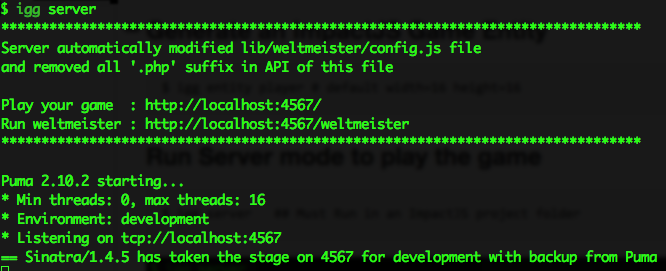
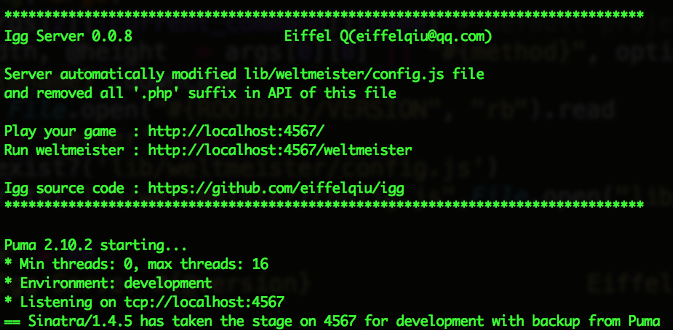
change server prompt

Changed region(s): [[0.0, 0.3542, 0.991, 1.0], [0.0, 0.0, 0.961, 0.3247]]

diff --git a/lib/igg/cli.rb b/lib/igg/cli.rb
@@ -8,6 +8,12 @@ require_relative 'server'
 require_relative 'ext/string_extention'
 %w[project entity level].each { |task| require_relative "builder/#{task}_builder" }
 
+LIBDIR = File.expand_path(File.join(File.dirname(__FILE__), '../..', 'lib'))
+ROOTDIR = File.expand_path(File.join(File.dirname(__FILE__), '../..'))
+unless $LOAD_PATH.include?(LIBDIR)
+  $LOAD_PATH << LIBDIR
+end
+
 class Igg::CLI < Thor
   include Thor::Actions
   Igg::Builder.constants.each { |b| include "Igg::Builder::#{b}".to_class }
@@ -35,17 +41,22 @@ class Igg::CLI < Thor
   def processing(*args)
     method = args[2][:current_command][:name] # default project name is app type name
     @name, @width, @height  = args[0][0] || "#{method}", options[:width], options[:height]
-    @name = "#{@name}".downcase                                  
+    @name = "#{@name}".downcase  
+    @version = File.open("#{ROOTDIR}/VERSION", "rb").read                                
     if method == 'server' then
       if File.exist?('lib/weltmeister/config.js')
         File.write("lib/weltmeister/config.js",File.open("lib/weltmeister/config.js",&:read).gsub(".php",""))
         puts 
         puts "*" * 80
+        puts "Igg Server #{@version}                   Eiffel Q(eiffelqiu@qq.com)"
+        puts 
         puts "Server automatically modified lib/weltmeister/config.js file"
         puts "and removed all '.php' suffix in API of this file"
         puts 
         puts "Play your game  : http://localhost:4567/"
         puts "Run weltmeister : http://localhost:4567/weltmeister"
+        puts 
+        puts "Igg source code : https://github.com/eiffelqiu/igg"
         puts "*" * 80
         puts                
         Server.run!

diff --git a/README.md b/README.md
@@ -1,4 +1,4 @@
-## ImpactJS Game Gadget.
+## ImpactJS Game Gadget. (Current Version 0.0.7)
 
 Several tools for fast developing an ImpactJS Game, include generators and built-in server to run the game and weltmeister level editor right in the current project folder without requiring apache http server and PHP configuration.
 
